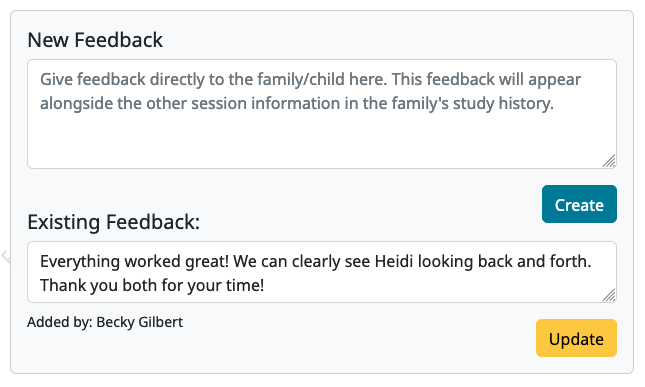
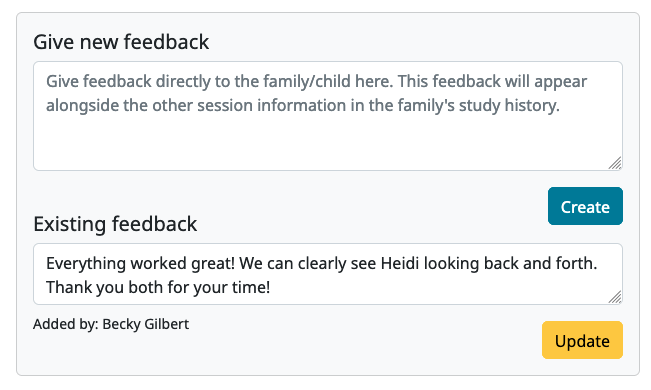
Update docs with changes to IR page (#478)
* update tutorial manage data with updated IR page screenshots and card headers
* update section on sending gift card - use message link from IR page
* new/updated images for tutorial section on sending gift card
* update section "Viewing individual study responses" with new text/screenshots, and add section on using the table
* update screenshots with new star icons

diff --git a/docs/source/researchers-experiment-data.rst b/docs/source/researchers-experiment-data.rst
@@ -178,17 +178,73 @@ If the participant repeats a frame (e.g. by navigating using a "previous" button
 Viewing individual study responses
 -----------------------------------
 
-To inspect single responses to your study, navigate to your study and click 'View Responses,' then 'Individual responses'. You must have permission to view this study's responses, which means you must have a Study admin, researcher, or analysis role. (If you can view preview responses, you will be able to access this same page, but only preview data will be included.)
+To inspect single responses to your study, navigate to your study and click 'View Responses,' then click the 'Individual Responses' tab. You must have permission to view this study's responses, which means you must have a Study admin, researcher, or analysis role. (If you can view preview responses, you will be able to access this same page, but only preview data will be included.)
 
 Responses only show up in this view once you have confirmed that the participant provided informed consent to participate using the Consent Manager. Both preview and real responses will show up here (depending on your permissions), but preview responses are marked with a "P" and say "PREVIEW" in the background of the row. 
 
-On the left, you have a list responses to your study, with the child ID, response ID, the study's completion status, and the date they started the study. When you click on a response, the data from that response is shown on the right. You can 
-download the data from that response in one of several formats: JSON (JavaScript Object Notation, a structured text format); a CSV summary (a "wide format" overview with basic information about the participant and response, such as condition assignment); or CSV frame data (a "long format" detailed list of data collected in each frame during this response, complementary to the CSV summary).
+At the top left of the page, you will see information about the number of responses that are available (approved consent), with rejected consent, and that are pending consent judgement. There is also a link to the :ref:`Consent Manager page <coding-consent>` for your study.
 
-.. image:: _static/img/responses.png
-    :alt: View responses
+.. image:: _static/img/view_individual_responses_1.png
+    :alt: View individual responses (top of page).
 
-Beneath the CSV/JSON response data are any individual videos that are linked to that participant's response. 
+The table contains information about all responses to your study. The box at the top-right of the page lets you know which response is currently selected. This box shows you any feedback left by the parent during the exit frame (internal studies only). It also contains a link to easily send the family a message about this response (opens the :ref:`Contact Participants page <contacting_participants>` in a new browser tab).
+
+.. image:: _static/img/view_individual_responses_2.png
+    :alt: View individual responses table.
+
+.. _box_above_ind_resp_table:
+When you click on a response row in the table, details about that response are updated in the box above the table as well as in the "Response details" box at the bottom-right of the page. The bottom-left the page contains options for downloading video and data from this particular response, and for viewing/creating feedback for the family (see section :ref:`"Leaving feedback" <leaving_feedback>`).
+
+.. image:: _static/img/view_individual_responses_3.png
+    :alt: View individual responses table.
+
+Any videos linked to this response will be shown in the "Download videos" box.
+
+The "Download response" box allows you to download the data from that particular response in one of several formats:
+
+- **JSON**: JavaScript Object Notation, a structured text format.
+- **CSV summary**: a "wide format" overview with basic information about the participant and response, such as condition assignment.
+- **CSV frame data**: a "long format" detailed list of data collected in each frame during this response, complementary to the CSV summary.
+
+.. _using_the_ind_responses_table:
+
+Using the Individual Responses table
+~~~~~~~~~~~~~~~~~~~~~~~~~~~~~~~~~~~~~
+
+The table contains the following information about each response: 
+
+- **Child ID**: Child's hashed (study-specific) ID and first name.
+- **Response ID**
+- **Date**: The date/time when the response was first created, in Coordinated Universal Time (UTC).
+- **Time Elapsed**: Time passed since the response was first created.
+- **Exit Frame Status**: Whether or not the participant completed the exit frame during this session. Possible values are "Complete" and "Incomplete". Note that this only applies to Internal studies - for external studies it will always be "Incomplete".
+- **Payment Status**: Optional, researcher-editable field for tracking the payment status for each session. The possible values are (blank), "Needs review", "To pay", "Do not pay", and "Paid".
+- **Session Status**: Optional, researcher-editable field for tracking the session status. The possible values are (blank), "To schedule", "Scheduled", "Session attended", "Session complete", "Follow up", "Communication complete", "Withdrawn or closed".
+- **Star**: Optional, researcher-editable field for flagging responses. The stars toggle between an "on" (yellow) and "off" (gray) state.
+
+**Researcher-editable fields**
+
+The last three columns in the list above ("Payment Status", "Session Status", "Star") are researcher-editable and completely optional. These columns are meant to help researchers manage the various states of their responses throughout data collection. You can filter/sort/search the table for these values, and they will appear in the response data downloads. These column values do not have any effect on other parts of the platform (e.g. what the participant sees about their response, whether the child is :ref:`counted as "having participated"<what-counts-as-participated>` in your study). Feel free to use these columns however makes sense for your study and work flow, or just ignore them!
+
+**Search, filter, and sort**
+
+The "Search" bar at the top-right of the table will search *all* of the text values in the table, including dates/times and drop-down values, and display any rows that contain a match. The search is case-insensitive and will match partial strings. For example, searching for "john" will match "John", "john", "Johnson", etc.
+
+You may want to narrow down your search to a specific column. For most columns, you can filter the responses for specific values using the input boxes at the bottom of the column. For "Child ID", "Response ID", and "Time Elapsed", you can start typing and the responses will be filtered based on any partial matches. For "Date", you can click on the empty box to bring up the built-in date range options, or enter a custom date range (select the "None" option to remove the filter). For "Exit Frame Status", "Payment Status", and "Session Status", you can filter using the drop-down options (select the first empty option in the drop-down to remove the filter).
+
+You can combine multiple search/filters, and they will continue to be applied until you delete or un-select them. The text below the table that tells you your total number of responses will also remind you whenever you are searching/filtering your responses.
+
+.. image:: _static/img/individual_responses_table_filtered.png
+    :alt: Text beneath the individual responses table that says "Showing 1 to 8 of 8 entries (filtered from 40 total entries)."
+
+Similarly, the :ref:`box above the table <box_above_ind_resp_table>` will remind you which response is currently selected. This is useful since the selected response might not be visible if you have searched/filtered the responses.
+
+There is no way to search on or filter for Preview status or Star column values. However, you can sort the table according to these column values to get e.g. all of the Starred or preview responses at the top of the table.
+
+.. image:: _static/img/individual_responses_table_sorted.png
+    :alt: Individual responses table sorting on the preview and star columns.
+
+Click on the column header to sort the table by that column. Clicking once will sort in ascending order, clicking again will sort in descending order, and clicking a third time will un-sort. The column that is currently sorted will have a small arrow next to the column name.
 
 .. _leaving_feedback:
 

diff --git a/docs/source/tutorial-manage-data.rst b/docs/source/tutorial-manage-data.rst
@@ -160,16 +160,19 @@ This will take you to the "All Responses" page. You will see some other tabs tow
 
 On the Individual Responses page, you will see a table where each row represents a single response session. The top (most recent) response will be selected automatically when the page loads. You can click on other rows to view and download information about each response.
 
-Your own response will probably be the top one. To check, with the top row selected, find the "**Response details**" box, and look at the "Parent name" and "Child name" values. This "Response details" box contains various other IDs and some key information taken from the exit survey. Try clicking on other rows in the table to see how the response details change.
+.. image:: _static/img/tutorial/individual_responses_1.png
+    :alt: Individual responses view - top of page.
 
-.. image:: _static/img/tutorial/individual_responses.png
-    :alt: Individual responses view
+Your own response will probably be the top one. To check, with the top row selected, scroll down to the "**Response details**" box below the table, and look at the "Parent name" and "Child name" values. This "Response details" box contains various other IDs and some key information taken from the exit survey. Try clicking on other rows in the table to see how the response details change.
+
+.. image:: _static/img/tutorial/individual_responses_2.png
+    :alt: Individual responses view - bottom of page.
 
 The "**Download response**" box allows you to download the data from the selected response in JSON or CSV format.
 
-The "**Videos**" box allows you to view and download any videos associated with the selected response.
+The "**Download videos**" box allows you to view and download any videos associated with the selected response.
 
-There's also a "**Feedback**" box where you can leave new feedback to the participant and any view existing feedback about this session. The feedback gets displayed to that specific participant on their "Past Studies" page. It's a good place to leave a short but personal thank-you message that shows a human has seen and appreciates their videos. Try it out! Leave a feedback message on your own video.
+There's also a "**Give new feedback**" box where you can leave new feedback to the participant and any view existing feedback about this session. The feedback gets displayed to that specific participant on their "Past Studies" page. It's a good place to leave a short but personal thank-you message that shows a human has seen and appreciates their videos. Try it out! Leave a feedback message on your own video.
 
 .. image:: _static/img/tutorial/feedback.png
     :alt: Feedback box
@@ -270,18 +273,37 @@ Contact a participant with a gift card code
 
 Second, let's imagine that you're compensating participants with gift cards. (You'll want to take a look at the Terms of Use and :ref:`compensation info here <compensation>` as you make more detailed plans, but essentially, for now researchers are responsible for handling any compensation by messaging participants.)
 
-From your study details page, click the "Study Responses" button from the menu on the right, then click on the "Individual Responses" tab. Find your response again. Copy the Parent ID from the "Response details" box:
+From your study details page, click the "Study Responses" button from the menu on the right, then click on the "Individual Responses" tab. Find your response in the table. With your own response selected, in the box to the top-right of the table, you will see a link that says "Send a message to this family":
 
-.. image:: _static/img/tutorial/response_parent_id.png
-    :alt: Parent ID in the Response Details box
+.. image:: _static/img/tutorial/response_message_family.png
+    :alt: Send message to this family link above the Individual Responses table.
 
-This same Parent ID can be found in the response data. If you download the data as a JSON file, it's under "participant": "hashed_id", and if you download the data as a CSV file, it's called "participant__hashed_id".
 
-Returning to the "Contact Participants" page, let's create another email. This time, you can select the "transactional" button (yellow), which allows you to reach even people who have opted out of email; this is because you sending the compensation is the completion of a "transaction" they agreed to. You will see a warning when you select this option, reminding you that this option is ONLY for completing a transaction.
+.. admonition:: Or copy/paste the Parent ID
+
+    Alternatively, you can copy the Parent ID, go to your study's "Contact Particpants" page, and paste the ID into the Recipients field. The Parent ID can be found in the "Response details" box and in the response data. If you download the data as a JSON file, it's under "participant": "hashed_id", and if you download the data as a CSV file, it's called "participant__hashed_id".
+
+Clicking the "Send a message to this family" link will open the "Contact Participants" page in a new tab, with this family as the recipient for a new email.
+
+.. image:: _static/img/tutorial/after_clicking_message_this_family.png
+    :alt: Contact Participants page after clicking "Send message to this family".
+
+By default, the message type that is selected is for sending **questions about their response**. This message type should be used if you need to follow up about a technical problem or clarify something about their response.
+
+.. admonition:: Why did I get this warning when I clicked "Send a message to this family"?
+
+    If the family account that you're trying to contact has opted out of the default message type (questions about their response), then when you click the "Send a message to this family" link, the website will not be able to add that family as a recipient. Instead, you will see a message at the top of the screen letting you know that they have opted out of this message type.
+
+    .. image:: _static/img/tutorial/user_opted_out_of_emails.png
+        :alt: Warning message when user has opted out of the default email type.
+
+    If you want to send a different message type, then select the appropriate type with the recipients filter buttons and try pasting the Parent ID into the "Recipients" field. You can read more about the message types in the :ref:`"Sending a message" <sending-a-message>` section.
     
-Like before, paste in your ID, write your message, send it, and make sure you receive it. (Don't actually send yourself a gift card. Unless you really want to.)
+However, because we are sending a gift card, you can select the **transactional** message type (yellow button), which allows you to reach even people who have opted out of email; this is because you sending the compensation is the completion of a "transaction" they agreed to. You will see a warning when you select this option, reminding you that this option is ONLY for completing a transaction.
 
 .. image:: _static/img/tutorial/transactional.png
     :alt: Transactional email
+
+Like before, write your message, send it, and make sure you receive it. (Don't actually send yourself a gift card. Unless you really want to.)
 
 Congratulations! We've covered all the basic functionality you'll need to manage your studies. Finally, we'll wrap up by briefly noting some of the advanced features you might want to use later and revisiting :ref:`Github issues<github_issues>` now that you may have some feature requests or bug reports.
